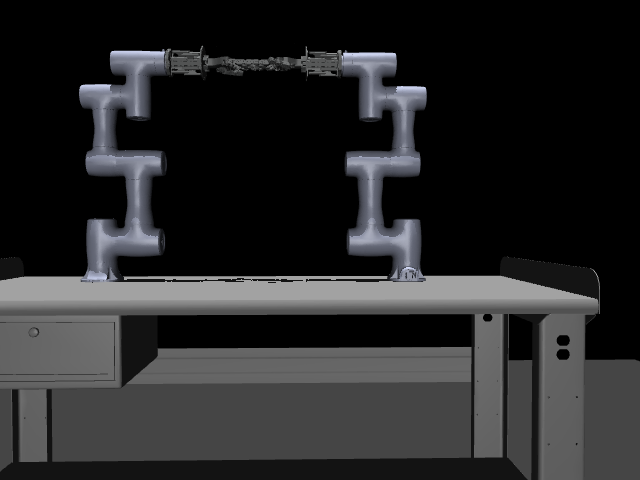
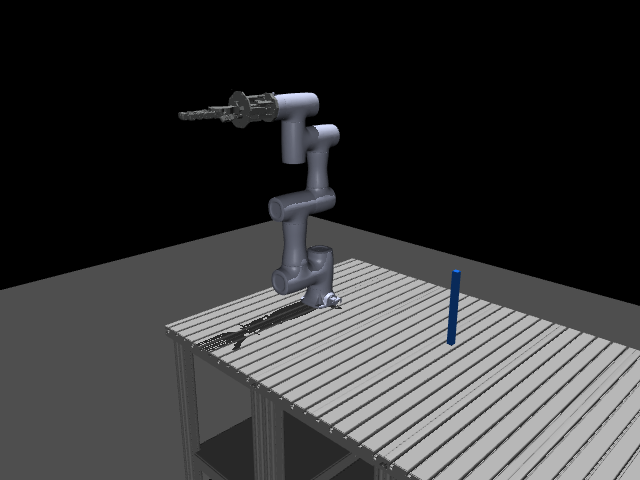
Improve portfolio typography and motion

diff --git a/index.html b/index.html
@@ -44,11 +44,11 @@
         <article class="project-card project-pac-act" data-category="learning systems"><div class="project-media dual"><div class="dual-panel"><img src="assets/pac-act/pac_act_architecture.png" alt="PAC-ACT network architecture" /><span>METHOD / ACT + PPO</span></div><div class="dual-panel"><img src="assets/pac-act/real_robot_setup.jpg" alt="Real robot contact manipulation setup" /><span>REAL WORLD / CONTACT SETUP</span></div></div><div class="project-body"><div class="project-kicker"><span>03</span><span>CONTACT RL / ACT</span></div><h3>PAC-ACT<br>Contact Manipulation</h3><p>基于 MuJoCo Metal–Rubber 接触场景，用动作块 PPO 微调预训练 ACT 策略，研究接触奖励、KL anchoring 和策略适配。</p><div class="tags"><span>ACT</span><span>PPO</span><span>MuJoCo</span></div><a class="text-link" href="https://github.com/fslee2/PAC-ACT" target="_blank" rel="noreferrer">View repository ↗</a></div></article>
         <article class="project-card" data-category="dexterity"><div class="project-media dark"><img src="assets/dexjoco/cr3_craft_shell_scene.jpg" alt="CRAFT hand simulation scene" /></div><div class="project-body"><div class="project-kicker"><span>04</span><span>HAND RETARGETING</span></div><h3>AnyDexRetarget<br>× CRAFT</h3><p>用优化式重定向把 MediaPipe 手部关键点映射到 20 关节仿真模型，同时保留 15 个独立实机变量。</p><div class="tags"><span>Retargeting</span><span>MJCF</span><span>Dynamixel</span></div><a class="text-link" href="https://github.com/fslee2/AnyDexRetarget_CRAFT" target="_blank" rel="noreferrer">View project ↗</a></div></article>
         <article class="project-card" data-category="systems"><div class="project-media asset-card"><div class="asset-card-inner"><span class="asset-card-code">CR3 / DESCRIPTION</span><strong>MJCF</strong><strong>URDF</strong><strong>XACRO</strong><small>meshes · kinematics · ROS2</small></div></div><div class="project-body"><div class="project-kicker"><span>05</span><span>ROBOT DESCRIPTION</span></div><h3>CR3 Robot<br>Assets</h3><p>整理可复用的 CR3 MuJoCo XML / MJCF、URDF、Xacro 和网格资源，服务于后续控制与仿真任务。</p><div class="tags"><span>URDF</span><span>MJCF</span><span>ROS2</span></div><a class="text-link" href="https://github.com/fslee2/cr3-robot-description-assets" target="_blank" rel="noreferrer">View repository ↗</a></div></article>
-        <article class="project-card" data-category="systems"><div class="project-media warm"><img src="assets/lab/real_robot_setup.jpg" alt="Real robot manipulation setup" /></div><div class="project-body"><div class="project-kicker"><span>06</span><span>HARDWARE / RESEARCH</span></div><h3>CRAFT-W<br>Research Workspace</h3><p>集中管理实验配置、轨迹、结果、图表和论文材料，把一次次硬件试验沉淀成可复现的研究记录。</p><div class="tags"><span>Experiments</span><span>Paper</span><span>Analysis</span></div><a class="text-link" href="https://github.com/fslee2" target="_blank" rel="noreferrer">Explore GitHub ↗</a></div></article>
+        <article class="project-card" data-visibility="hidden" data-category="systems"><div class="project-media warm"><img src="assets/lab/real_robot_setup.jpg" alt="Real robot manipulation setup" /></div><div class="project-body"><div class="project-kicker"><span>06</span><span>HARDWARE / RESEARCH</span></div><h3>CRAFT-W<br>Research Workspace</h3><p>集中管理实验配置、轨迹、结果、图表和论文材料，把一次次硬件试验沉淀成可复现的研究记录。</p><div class="tags"><span>Experiments</span><span>Paper</span><span>Analysis</span></div><a class="text-link" href="https://github.com/fslee2" target="_blank" rel="noreferrer">Explore GitHub ↗</a></div></article>
         <article class="project-card" data-category="dexterity"><div class="project-media dark"><img src="assets/teleop-teacher/teleop_teacher_mujoco.png" alt="CR3 CRAFT MuJoCo teleoperation teacher scene" /></div><div class="project-body"><div class="project-kicker"><span>07</span><span>DEPTH / PERCEPTION</span></div><h3>Teleop Teacher<br>Demo</h3><p>为 CR3 + CRAFT 遥操作接入 MobileHand 深度教师，探索从单目 RGB 估计到更稳定空间控制的轻量路径。</p><div class="tags"><span>MobileHand</span><span>Depth</span><span>Teacher</span></div><a class="text-link" href="https://github.com/fslee2/Dobot-Crafthand" target="_blank" rel="noreferrer">View repository ↗</a></div></article>
-        <article class="project-card" data-category="systems"><div class="project-media pale"><img src="assets/lab/robot_simulation_spawn.jpg" alt="Robot simulation environment" /></div><div class="project-body"><div class="project-kicker"><span>08</span><span>ROBOT CONTROL</span></div><h3>Dobot ROS2<br>Control Stack</h3><p>基于 TCP/IP 的 Dobot 六轴机器人 ROS2 与 MoveIt 开发、通信和控制实验。</p><div class="tags"><span>ROS2</span><span>MoveIt</span><span>TCP/IP</span></div><a class="text-link" href="https://github.com/Dobot-Arm/TCP-IP-ROS-6AXis" target="_blank" rel="noreferrer">Reference project ↗</a></div></article>
-        <article class="project-card" data-category="learning systems"><div class="project-media warm"><img src="assets/bimanual/bimanual_validation_frame.jpg" alt="Bimanual validation frame" /></div><div class="project-body"><div class="project-kicker"><span>09</span><span>ROBOT LEARNING</span></div><h3>LeRobot /<br>robomimic Studies</h3><p>围绕数据集、模仿学习和策略复现搭建的实验集合，连接真实示教轨迹与可评估的 policy rollout。</p><div class="tags"><span>robomimic</span><span>LeRobot</span><span>Datasets</span></div><a class="text-link" href="https://github.com/fslee2" target="_blank" rel="noreferrer">Explore GitHub ↗</a></div></article>
-        <article class="project-card" data-category="systems dexterity"><div class="project-media dark"><img src="assets/lab/tactile_contact_closeup.jpg" alt="Tactile contact manipulation" /></div><div class="project-body"><div class="project-kicker"><span>10</span><span>HARDWARE / DESIGN</span></div><h3>CRAFT Hand<br>Hardware &amp; CAD</h3><p>CRAFT Hand API、MJCF 模型、零件打印与装配、腕部处理件和硬件调试资料。</p><div class="tags"><span>Dynamixel</span><span>CAD</span><span>3D Print</span></div><a class="text-link" href="https://github.com/craft-hand/CRAFT-Hand_API" target="_blank" rel="noreferrer">CRAFT SDK ↗</a></div></article>
+        <article class="project-card" data-visibility="hidden" data-category="systems"><div class="project-media pale"><img src="assets/lab/robot_simulation_spawn.jpg" alt="Robot simulation environment" /></div><div class="project-body"><div class="project-kicker"><span>08</span><span>ROBOT CONTROL</span></div><h3>Dobot ROS2<br>Control Stack</h3><p>基于 TCP/IP 的 Dobot 六轴机器人 ROS2 与 MoveIt 开发、通信和控制实验。</p><div class="tags"><span>ROS2</span><span>MoveIt</span><span>TCP/IP</span></div><a class="text-link" href="https://github.com/Dobot-Arm/TCP-IP-ROS-6AXis" target="_blank" rel="noreferrer">Reference project ↗</a></div></article>
+        <article class="project-card" data-visibility="hidden" data-category="learning systems"><div class="project-media warm"><img src="assets/bimanual/bimanual_validation_frame.jpg" alt="Bimanual validation frame" /></div><div class="project-body"><div class="project-kicker"><span>09</span><span>ROBOT LEARNING</span></div><h3>LeRobot /<br>robomimic Studies</h3><p>围绕数据集、模仿学习和策略复现搭建的实验集合，连接真实示教轨迹与可评估的 policy rollout。</p><div class="tags"><span>robomimic</span><span>LeRobot</span><span>Datasets</span></div><a class="text-link" href="https://github.com/fslee2" target="_blank" rel="noreferrer">Explore GitHub ↗</a></div></article>
+        <article class="project-card" data-visibility="hidden" data-category="systems dexterity"><div class="project-media dark"><img src="assets/lab/tactile_contact_closeup.jpg" alt="Tactile contact manipulation" /></div><div class="project-body"><div class="project-kicker"><span>10</span><span>HARDWARE / DESIGN</span></div><h3>CRAFT Hand<br>Hardware &amp; CAD</h3><p>CRAFT Hand API、MJCF 模型、零件打印与装配、腕部处理件和硬件调试资料。</p><div class="tags"><span>Dynamixel</span><span>CAD</span><span>3D Print</span></div><a class="text-link" href="https://github.com/craft-hand/CRAFT-Hand_API" target="_blank" rel="noreferrer">CRAFT SDK ↗</a></div></article>
       </div>
     </section>
 

diff --git a/styles.css b/styles.css
@@ -4,3 +4,5 @@
 :root{--sans:"Space Grotesk","Noto Sans SC","PingFang SC","Microsoft YaHei",sans-serif}
 .hero-card-art{height:250px;display:flex;flex-direction:column;justify-content:space-between;padding:18px;background:radial-gradient(circle at 76% 20%,#556c4f 0 1px,transparent 2px),linear-gradient(135deg,#202820,#0b0e0c 70%);background-size:28px 28px,auto;color:#dce8d2}.hero-art-kicker,.hero-art-grid{font:10px var(--mono);letter-spacing:.08em;color:var(--green)}.hero-card-art strong{font:700 42px/0.92 var(--sans);letter-spacing:-.08em}.hero-card-art strong em{font:400 38px/0.92 Georgia,serif;color:var(--orange);letter-spacing:-.08em}.asset-card{background:linear-gradient(135deg,#d6d2c5,#9da69a);display:grid;place-items:center}.asset-card-inner{width:72%;height:72%;border:1px solid #273229;background:#e7e4d9;box-shadow:12px 12px 0 #5a675d;padding:18px;display:grid;grid-template-columns:1fr 1fr;gap:8px;align-content:center;color:#273229}.asset-card-code,.asset-card-inner small{grid-column:span 2;font:10px var(--mono);color:#59645a}.asset-card-inner strong{font:600 26px var(--sans);letter-spacing:-.06em;border-top:1px solid #9da69a;padding-top:8px}.project-grid .project-card:nth-of-type(6),.project-grid .project-card:nth-of-type(8),.project-grid .project-card:nth-of-type(9),.project-grid .project-card:nth-of-type(10){display:none}
 :root{--bg:#f5f9fd;--panel:#ffffff;--panel-2:#eaf3fb;--ink:#102a43;--muted:#61788f;--line:#cbdbea;--orange:#1769c2;--yellow:#dceeff;--green:#b8dcfa}.noise{opacity:.018}.topbar{border-bottom-color:var(--line)}.brand-mark,.eyebrow,.project-kicker,.filter span{color:var(--orange)}nav a,.section-intro,.lede,.stack-copy,.project-card p,.stack-row span,.stack-row p,.hero-card-label{color:var(--muted)}.hero h1 em,h2 em{color:var(--orange)}.button-primary{background:var(--orange);color:#fff}.button-primary:hover{background:#0f4f97}.button-ghost,.nav-cta{border-color:var(--line);color:var(--ink)}.hero-card{background:var(--panel);border-color:var(--line);box-shadow:22px 24px 0 #d6e5f2}.hero-card-art{background:radial-gradient(circle at 78% 18%,#8fc1ec 0 1px,transparent 2px),linear-gradient(135deg,#e6f3ff,#b9d8f1 70%);background-size:28px 28px,auto;color:#123d66}.hero-art-kicker,.hero-art-grid{color:#1769c2}.hero-card-art strong em{color:#2d82d4}.orbit{border-color:#9dc4e5}.floating-note{background:#dceeff;color:#17446e;box-shadow:8px 8px 0 #c4dced}.note-two{background:#c7e4fb}.ticker,.stack-section,.footer{border-color:var(--line)}.project-card{background:var(--panel);border-color:var(--line)}.project-card:hover{border-color:#5c9bd4}.project-media.dark{background:#dceeff}.project-media.warm{background:#e8f3fb}.project-media.pale{background:#e8f2fa}.status{background:#c7e4fb;color:#17446e}.tags span{border-color:var(--line);color:#4b6780}.text-link{color:var(--ink)}.filter{border-color:var(--line);color:var(--muted)}.filter.active,.filter:hover{border-color:var(--orange);color:var(--ink)}.project-media.dual{background:#dceeff}.dual-panel:first-child{background:#eff7ff}.dual-panel+ .dual-panel{background:#d5e9f8}.dual-panel span{background:#102a43e8;color:#fff}.asset-card{background:linear-gradient(135deg,#e9f4fc,#b9d8ef)}.asset-card-inner{border-color:#2b577b;background:#f7fbff;box-shadow:12px 12px 0 #8eb8d8;color:#214766}.asset-card-code,.asset-card-inner small{color:#54738d}.asset-card-inner strong{border-top-color:#b9d8ef}.stack-section{background:#edf5fb}
+:root{--ease:cubic-bezier(.2,.75,.25,1)}body{font-size:16px;background:linear-gradient(180deg,#f8fbff 0%,#f5f9fd 48%,#edf5fb 100%)}.container{width:min(1240px,calc(100% - 72px))}.topbar{height:96px}.topbar nav{font-size:14px;gap:34px}.brand{font-size:15px}.hero{min-height:750px;gap:72px;padding:104px 0 132px}.hero h1{font-size:clamp(62px,8vw,112px);line-height:.96}.lede{max-width:580px;font-size:20px;line-height:1.75;margin:36px 0 42px}.eyebrow{font-size:13px;letter-spacing:.16em}.button{font-size:14px;padding:16px 20px}.hero-visual{min-height:500px}.hero-card{width:min(500px,92%);padding:24px}.hero-card-art{height:310px}.hero-card-art strong{font-size:58px}.hero-card-art strong em{font-size:50px}.floating-note{font-size:13px;padding:14px 17px}.ticker{font-size:13px}.ticker-track{padding:22px 0}.section{padding:150px 0}.section-heading{margin-bottom:56px}.section-heading h2,.stack-section h2,.about-section h2{font-size:clamp(50px,6vw,78px)}.section-intro{width:360px;font-size:17px;line-height:1.75}.filter{font-size:13px;padding:12px 16px}.project-grid{gap:24px}.project-media{height:330px}.project-featured .project-media{min-height:560px}.project-body{padding:38px}.project-kicker{font-size:12px}.project-card h3{font-size:38px;margin:24px 0 18px}.project-featured h3{font-size:54px}.project-card p{font-size:16px;line-height:1.8;margin-bottom:24px}.tags{margin:22px 0 30px}.tags span{font-size:12px;padding:6px 10px}.text-link{font-size:13px}.stack-section{padding:140px 0}.stack-layout{gap:130px}.stack-copy{font-size:17px;line-height:1.8}.stack-row{padding:28px 0}.stack-row strong{font-size:21px}.stack-row p{font-size:14px}.about-section{padding:150px 0 165px}.about-copy{font-size:17px;line-height:1.85}.footer{font-size:12px;padding:28px 0 38px}.project-card.reveal{opacity:0;transform:translateY(34px)}.project-card.reveal.is-visible{opacity:1;transform:translateY(0);transition:opacity .8s var(--ease) var(--reveal-delay),transform .8s var(--ease) var(--reveal-delay)}.project-card:hover .project-media img{transform:scale(1.045)}.project-media img{transition:transform .8s var(--ease)}.hero-card{animation:hero-float 7s ease-in-out infinite}.orbit-a{animation:orbit-a 18s linear infinite}.orbit-b{animation:orbit-b 24s linear infinite}@keyframes hero-float{0%,100%{transform:rotate(3deg) translateY(0)}50%{transform:rotate(3deg) translateY(-12px)}}@keyframes orbit-a{to{transform:rotate(335deg)}}@keyframes orbit-b{to{transform:rotate(402deg)}}
+@media(max-width:800px){.container{width:min(100% - 36px,640px)}.topbar{height:78px}.hero{min-height:0;padding:78px 0 96px}.hero h1{font-size:clamp(54px,14vw,78px)}.lede{font-size:17px}.hero-visual{min-height:390px}.hero-card-art{height:250px}.hero-card-art strong{font-size:44px}.hero-card-art strong em{font-size:38px}.section{padding:100px 0}.section-heading h2,.stack-section h2,.about-section h2{font-size:clamp(42px,12vw,62px)}.section-intro{width:auto;font-size:16px}.project-media{height:270px}.project-featured .project-media{min-height:330px}.project-body{padding:28px}.project-card h3{font-size:32px}.project-featured h3{font-size:40px}.project-card p{font-size:15px}.stack-section{padding:100px 0}.stack-layout{gap:60px}}

diff --git a/script.js b/script.js
@@ -1,13 +1,30 @@
 const filters = document.querySelectorAll('.filter');
 const cards = document.querySelectorAll('.project-card');
+
+const revealObserver = new IntersectionObserver((entries) => {
+  entries.forEach((entry) => {
+    if (entry.isIntersecting) {
+      entry.target.classList.add('is-visible');
+      revealObserver.unobserve(entry.target);
+    }
+  });
+}, { threshold: 0.12 });
+
+cards.forEach((card, index) => {
+  card.classList.add('reveal');
+  card.style.setProperty('--reveal-delay', `${Math.min(index * 70, 420)}ms`);
+  revealObserver.observe(card);
+});
+
 filters.forEach((button) => {
   button.addEventListener('click', () => {
     filters.forEach((item) => item.classList.remove('active'));
     button.classList.add('active');
     const filter = button.dataset.filter;
     cards.forEach((card) => {
-      const visible = filter === 'all' || card.dataset.category.includes(filter);
+      const visible = card.dataset.visibility !== 'hidden' && (filter === 'all' || card.dataset.category.includes(filter));
       card.style.display = visible ? '' : 'none';
+      if (visible) requestAnimationFrame(() => card.classList.add('is-visible'));
     });
   });
 });
